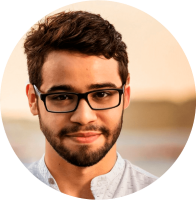
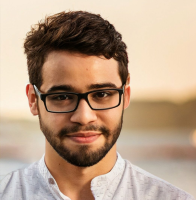
Add more elements on style.css. Changes on header_img.png file and index.html for meeting style aditions

diff --git a/index.html b/index.html
@@ -7,20 +7,20 @@
     </head>
     <body>
         <header>
-            <img src="header_img.png" alt="Imagem da face de Isaac Conceição">
-            <h1 id="title">Isaac Conceição</h1>
+            <img id="photo" src="header_img.png" alt="Imagem da face de Isaac Conceição">
+            <h1 id="title">isaac conceição</h1>
         </header>
         <section>
             <header>
                 <h2 class="subtitle">Posts</h2>
             </header>
-            <article>
+            <article class="post">
                 <header>
                     <h3 class="post_title">Post #1</h3>
-                    <img src="post_img.png" alt="Imagem com a ilustração de um código de programação html, com uma paisagem tropical desfocada como plano de fundo">
+                    <img src="post_img.png" class="post_img" alt="Imagem com a ilustração de um código de programação html, com uma paisagem tropical desfocada como plano de fundo">
                 </header>
-                <p>
-                    Lorem ipsum dolor sit amet, consectetur adipiscing elit. Ut congue tortor quis molestie semper. Duis vel lobortis arcu, pellentesque facilisis velit. Vestibulum pulvinar neque nisi, at tincidunt nibh facilisis in. Lorem ipsum dolor sit amet, consectetur adipiscing elit. Aliquam ornare ut purus quis faucibus. Sed molestie sodales neque, ut vehicula nulla elementum in. Nulla porttitor sapien lectus, sit amet convallis felis consectetur eget. Aenean pretium faucibus nulla. Phasellus a finibus justo. Ut vulputate felis ante, quis ornare leo ultricies vitae. Curabitur molestie facilisis augue, sed faucibus odio dignissim ornare.
+                <p class="post_content">
+                    lorem ipsum dolor sit amet, consectetur adipiscing elit. Ut congue tortor quis molestie semper. Duis vel lobortis arcu, pellentesque facilisis velit. Vestibulum pulvinar neque nisi, at tincidunt nibh facilisis in. Lorem ipsum dolor sit amet, consectetur adipiscing elit. Aliquam ornare ut purus quis faucibus. Sed molestie sodales neque, ut vehicula nulla elementum in. Nulla porttitor sapien lectus, sit amet convallis felis consectetur eget. Aenean pretium faucibus nulla. Phasellus a finibus justo. Ut vulputate felis ante, quis ornare leo ultricies vitae. Curabitur molestie facilisis augue, sed faucibus odio dignissim ornare.
                 </p>
             </article>
         </section>

diff --git a/style.css b/style.css
@@ -1,8 +1,61 @@
+body {
+    background: #f7f7f7;
+    font-family: verdana, arial;
+}
+
 #title, .subtitle, .post_title {
-    color:blue;
+    color: #505050;
+}
+
+#title{
+    font-size: 44px;
+    text-transform: capitalize;
+}
+
+a {
+    color:#505050;
 }
 
 .post_title{
     font-size: 16px;
     font-style: italic;
+    margin: 0;
+    margin-bottom: 15px;
+}
+
+#photo{
+    border: 1px solid #505050;
+    border-radius: 50%;
+}
+
+.post {
+    background: #fff;
+    padding: 15px;
+    border: 1px solid #505050;
+    margin-bottom: 15px;
+    border-radius: 5px;
+}
+
+.post_content{
+    margin: 0;
+    margin-bottom: 15px;
+}
+
+/* add uppercase and "drop cap" on posts first letter */
+.post_content::first-letter{
+    font-family: 'Times New Roman',serif,arial;
+    color: #900;
+    font-size: 40px;
+    float: left;
+    line-height: 60px;
+    text-transform: uppercase;
+    font-weight: bold;
+    padding-top: 4px;
+    padding-right: 8px;
+    padding-left: 3px;
+}
+
+.post_img{
+    margin: 0;
+    margin-bottom: 15px;
 }
